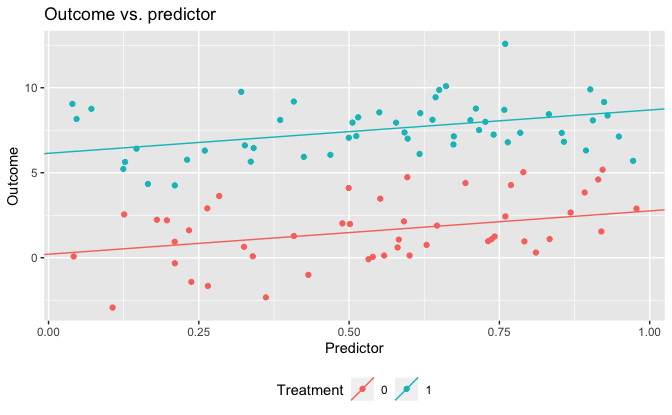
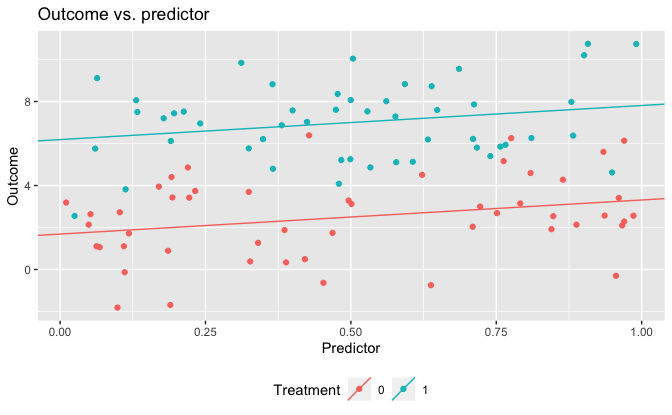
Initial commit

diff --git a/Residuals/residuals_tv.md b/Residuals/residuals_tv.md
@@ -1,7 +1,7 @@
 Regression and Other Stories: Residuals
 ================
 Andrew Gelman, Jennifer Hill, Aki Vehtari
-2021-02-09
+2021-03-06
 
 -   [11 Assumptions, diagnostics, and model
     evaluation](#11-assumptions-diagnostics-and-model-evaluation)
@@ -43,7 +43,7 @@ source(file_common)
 Simulated data.
 
 ``` r
-set.seed(660)
+set.seed(987)
 
 n <- 100
 a <- 1
@@ -54,7 +54,7 @@ sigma <- 2
 data_1 <- 
   tibble(
     x = runif(n, min = 0, max = 1),
-    z = sample(0:1, n, replace = TRUE),
+    z = rep(0:1, n / 2) %>% sample(),
     y = a + b * x + theta * z + rnorm(n, mean = 0, sd = sigma)
   )
 ```
@@ -62,7 +62,7 @@ data_1 <-
 Model.
 
 ``` r
-set.seed(660)
+set.seed(987)
 
 fit_1 <- stan_glm(y ~ x + z, data = data_1, refresh = 0)
 
@@ -76,13 +76,13 @@ fit_1
     #>  predictors:   3
     #> ------
     #>             Median MAD_SD
-    #> (Intercept) 0.2    0.4   
-    #> x           2.5    0.6   
-    #> z           5.9    0.3   
+    #> (Intercept) 1.7    0.4   
+    #> x           1.6    0.6   
+    #> z           4.5    0.4   
     #> 
     #> Auxiliary parameter(s):
     #>       Median MAD_SD
-    #> sigma 1.6    0.1   
+    #> sigma 1.8    0.1   
     #> 
     #> ------
     #> * For help interpreting the printed output see ?print.stanreg
@@ -121,7 +121,7 @@ data_1 %>%
 Simulated data.
 
 ``` r
-set.seed(660)
+set.seed(987)
 
 n <- 100
 k <- 10
@@ -134,7 +134,7 @@ sigma <- 2
 data_2 <- 
   tibble(
     X = matrix(runif(n * k, min = 0, max = 1), nrow = n, ncol = k),
-    z = sample(0:1, n, replace = TRUE),
+    z = rep(0:1, n / 2) %>% sample(),
     y = as.double(a + X %*% b + theta * z + rnorm(n, mean = 0, sd = sigma))
   )
 ```
@@ -142,7 +142,7 @@ data_2 <-
 Model.
 
 ``` r
-set.seed(660)
+set.seed(987)
 
 fit_2 <- stan_glm(y ~ X + z, data = data_2, refresh = 0)
 
@@ -156,22 +156,22 @@ fit_2
     #>  predictors:   12
     #> ------
     #>             Median MAD_SD
-    #> (Intercept)  1.4    1.2  
-    #> X1           2.5    0.8  
-    #> X2           1.8    0.8  
-    #> X3           1.4    0.8  
-    #> X4           4.3    0.8  
-    #> X5           3.9    0.8  
-    #> X6           5.1    0.8  
-    #> X7           6.3    0.8  
-    #> X8           7.7    0.7  
-    #> X9           8.9    0.8  
-    #> X10         11.9    0.8  
-    #> z            5.4    0.4  
+    #> (Intercept) -0.2    1.1  
+    #> X1           0.6    0.7  
+    #> X2           2.5    0.7  
+    #> X3           3.6    0.7  
+    #> X4           3.9    0.7  
+    #> X5           5.2    0.8  
+    #> X6           6.0    0.7  
+    #> X7           8.8    0.8  
+    #> X8           8.8    0.8  
+    #> X9           8.7    0.7  
+    #> X10         10.4    0.8  
+    #> z            4.5    0.4  
     #> 
     #> Auxiliary parameter(s):
     #>       Median MAD_SD
-    #> sigma 2.1    0.2   
+    #> sigma 2.0    0.1   
     #> 
     #> ------
     #> * For help interpreting the printed output see ?print.stanreg
